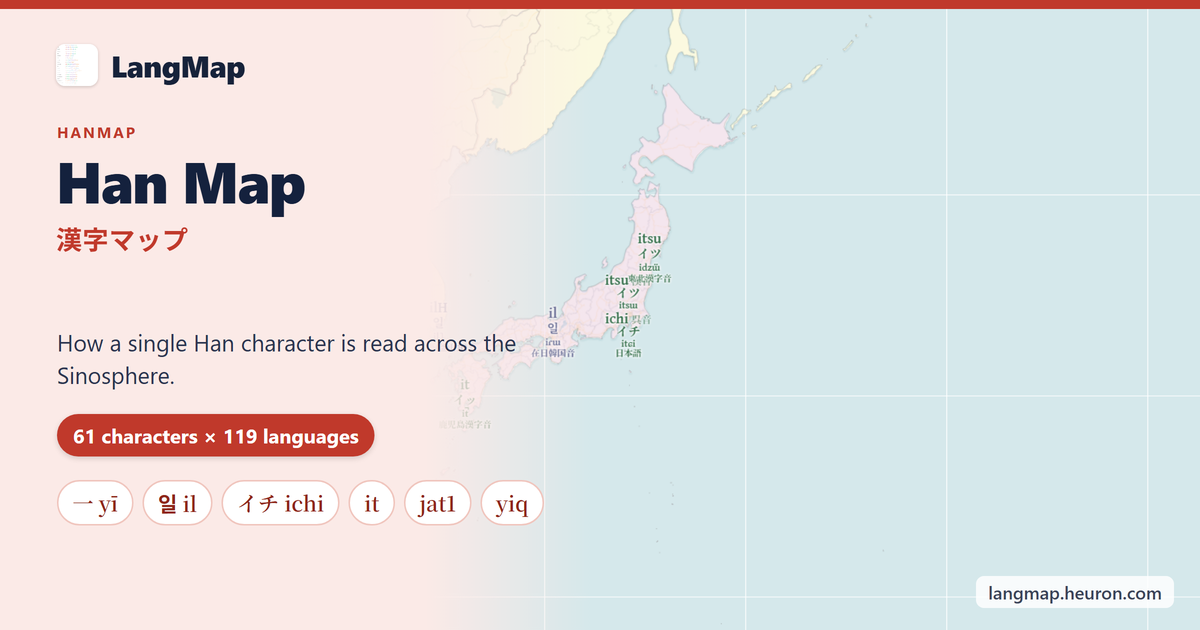
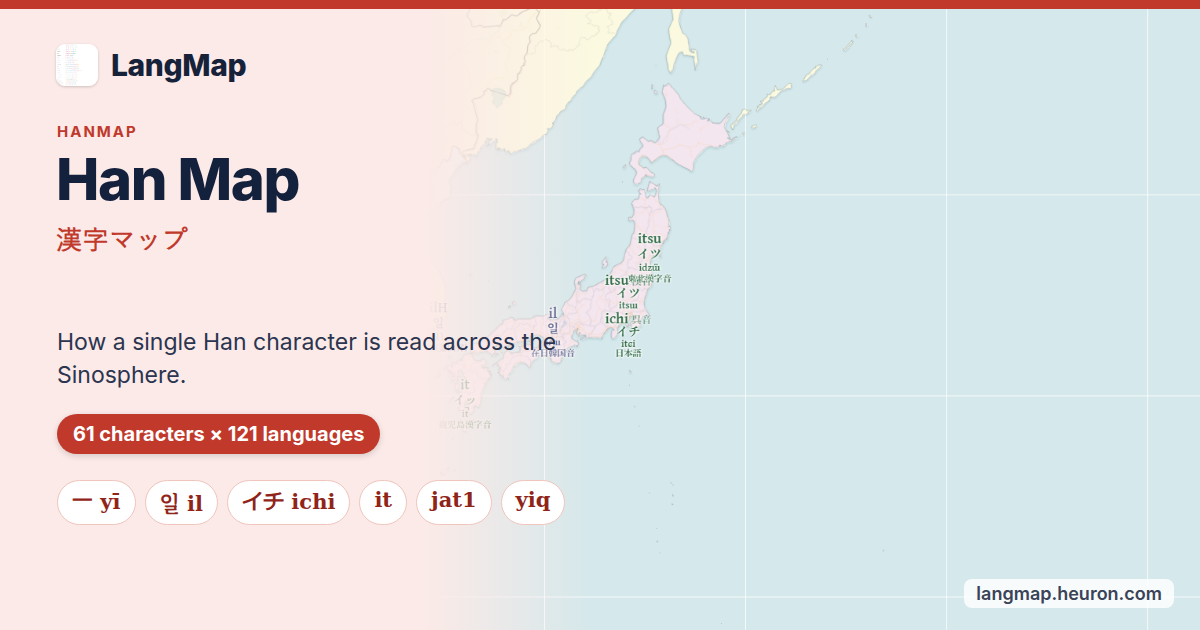
Redraw the five OGP share cards with the corrected counts
The meta tags were fixed in bad2cc11 but the images are rendered composites, so
the old numbers were still baked into the pictures people actually see when a
link is shared.

Re-rendered tools/ogp/ogp_template.html at 1200x630 with the Playwright
Chromium already cached on this machine. Two font gaps had to be closed first,
because the first render came out wrong in ways worth recording:

- Inter was missing, so the card titles fell back to a lighter system sans and
  did not match the existing design. Installed Inter 4.1 to ~/.fonts.
- No Korean font was present, so the Han Map card's 일 il chip rendered as a
  tofu box. Installed Noto Serif CJK KR.

Both are local to this machine, not repo changes. Anyone rebuilding these cards
elsewhere needs Inter plus a CJK-KR face; noted for the README.

tools/ogp/src2_tree.png was also recaptured. It is a screenshot of the family
tree, and it still showed the family counts from when the tree held about a
thousand languages — which would have sat next to a pill reading 1,187. The new
crop is the current page (Indo-European 281, Sino-Tibetan 118, …) composed into
the same box, tint and scale as the old one. The other four crops are map views
with no visible counts and are unchanged.

Card designs are otherwise identical. All 69 guards green.

diff --git a/changelog.html b/changelog.html
@@ -147,7 +147,7 @@
             <ul>
                 <li><strong>Every page title and share card was quoting a stale count.</strong> The Word Map said 1,166 languages when it holds 1,187; the Han Map said 119 when it has 121; the family tree still said 1,000, which it passed in June. Titles, descriptions, social-card text and the structured data behind them are all corrected.</li>
                 <li><strong>The word-order map was overstating itself, and had been for a while.</strong> Its title claimed 242 languages; the sentences actually carry 223. That figure was set in June and nothing since had checked it against the data. It now says 223.</li>
-                <li>The share images themselves still carry the old numbers — they are rendered pictures, not text, and have to be redrawn separately.</li>
+                <li><strong>The five share images were redrawn too.</strong> They are rendered pictures rather than text, so the corrected numbers had to be re-rendered into them; the family-tree card also had a screenshot of the tree from back when it held about a thousand languages, and that has been recaptured. The card designs are otherwise unchanged.</li>
             </ul>
         </div>
 
